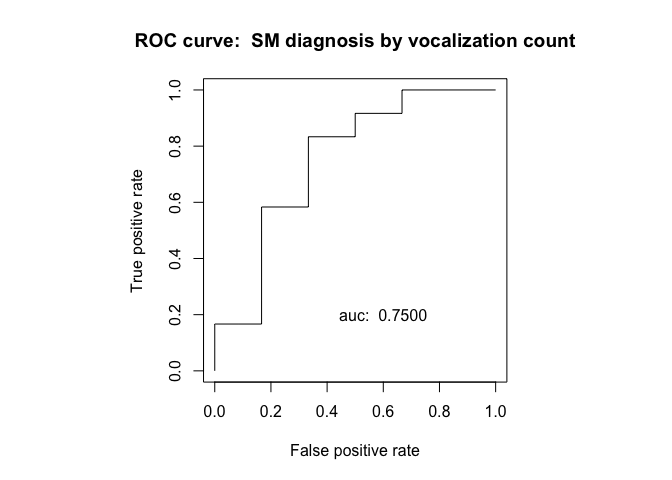
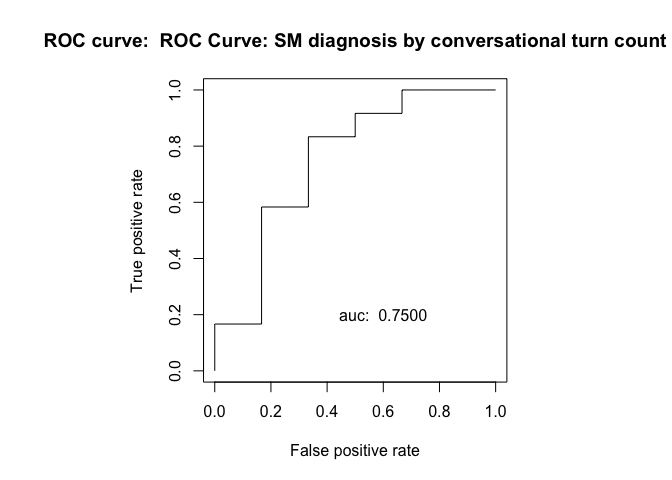
receiver operating characteristic curves

Changed region(s): [[0.0625, 0.0625, 1.0, 0.125]]

diff --git a/CPP/ROC_curves.md b/CPP/ROC_curves.md
@@ -48,7 +48,6 @@ get & prep data
     smq_data <- data[complete.cases(data),]
 
     SM_DX_ROC_plot <- function(data, formula, plotlabel) {
-      plotlabel <- "SM diagnosis by vocalization count"
       lreg_p <- vector()
       lreg_l <- vector()
       lreg_fp <- vector()
